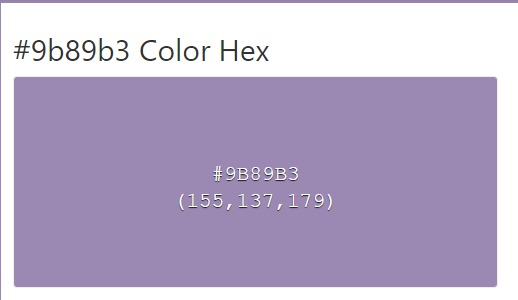
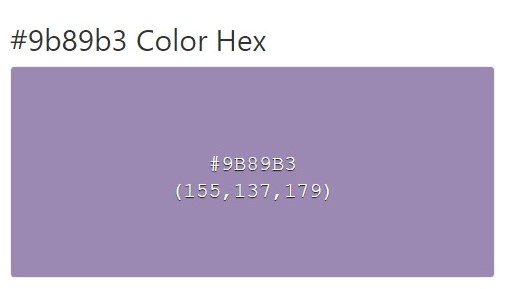
Netlify status

Changed region(s): [[0.0, 0.0934, 0.965, 0.9654], [0.3424, 0.5294, 0.6537, 0.7163], [0.0, 0.0, 1.0, 0.0311]]

diff --git a/README.md b/README.md
@@ -3,7 +3,7 @@
 
 Hello everyone and welcome to my About Me Project. My name is Katerine Gomez and I will be sharing a little bit more about this project that I did on my Web Development I class at Raritan Valley Community College.
 
-First of all I will share with all of you my Netlify Status Badges: https://api.netlify.com/api/v1/badges/c44c454b-b4e0-47c2-8860-64c968bcc7e1/deploy-status
+First of all I will share with all of you my Netlify Status Badges: [![Netlify Status](https://api.netlify.com/api/v1/badges/c44c454b-b4e0-47c2-8860-64c968bcc7e1/deploy-status)](https://app.netlify.com/sites/about-me-kategomezb/deploys)
 
 # About Me Project Description - Skill Development
 
@@ -19,7 +19,7 @@ For my project I used a muted purple, a pale pinkish and the dark purple as a co
 
 The #9B89B3 and the #362B48 are complementary with each other. The #FDF7FF and the #362B48 are complementary as well, so it was really easy to choose those colors. Selecting this colors helped me to balance the color palette with a good mix of light and dark color that can make my website look a little sophisticated, and with a little muted atmosphere.
 
-<img src="img\palette.jpeg">
+<img src="img\9B89B3.jpeg">
 
 -Hex Codes:
 
